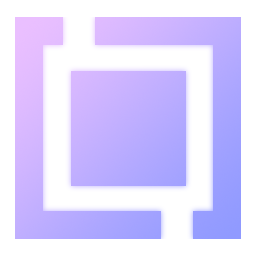
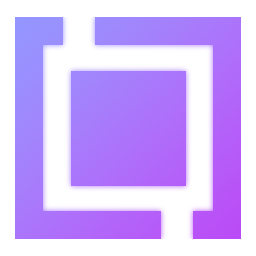
ECS-TH1 初识 结束

diff --git a/valaxy.config.ts b/valaxy.config.ts
@@ -26,7 +26,7 @@ export default defineValaxyConfig<UserThemeConfig>({
       enable : true,
       url:"https://pic.imgdb.cn/item/675cd5e7d0e0a243d4e3c51f.png",
       dark:"https://pic.imgdb.cn/item/675c4ab9d0e0a243d4e3bc96.png",   //"https://img.picui.cn/free/2024/12/11/6759b4f393e96.png"
-      opacity:0.9,
+      opacity:0.75,
     },
     say:{
       enable:true,

diff --git a/site.config.ts b/site.config.ts
@@ -13,7 +13,7 @@ export default defineSiteConfig({
   subtitle: '',
   lastUpdated:true,
   description: '庄生晓梦迷蝴蝶',
-  favicon:'https://pic.imgdb.cn/item/675ce224d0e0a243d4e3c64f.png',
+  favicon:'https://pic.imgdb.cn/item/675d87f2d0e0a243d4e40406.png',
   comment:{
     enable:true,
   },

diff --git a/pages/posts/ECS-TH1基本思想/index.md b/pages/posts/ECS-TH1基本思想/index.md
@@ -1,5 +1,6 @@
 ---
-title: ECS-TH1 基本思想
+title: ECS-TH1 初识
+icon : i-ri-stack-line
 author: Lin
 date: 2024-12-10
 categories: ECS
@@ -21,13 +22,13 @@ tags:
 
 ## 本章目录
 
+本章主要讲了ECS的理论基础
 1. 什么是ECS
     1. ECS与OOP的区别
     2. 为什么要用ECS？
 2. 万丈高楼平地起
-	1. 由OOP到ECS
-	2. GO补完计划
-	3. ComponentId
+	  1. 由OOP到ECS
+	  2. 对象补完计划
 
 <!-- more -->
 
@@ -66,9 +67,11 @@ GameObject --> 环境物
 环境物 --> 大树
 GameObject --> 人
 ```
-不难看出，OOP看起来像是把每个游戏对象竖直分隔开，成为独立的个体，也就是常说的类，每个`GameObject`(下文缩写为`GO`)都有自己独立的属性，互不干扰。
+不难看出，OOP看起来像是把每个游戏对象竖直分隔开，成为独立的个体，并依赖继承关系来实现代码复用，也就是常说的类，每个`GameObject`(下文缩写为`GO`)都有自己独立的属性，互不干扰。
 
-而在ECS的水平分割中，看起来应该是这样的：
+但，当GO间的继承关系变得复杂时，其本符合生活习惯的思维方式反而会变成一种障碍，各种复杂的多重继承更是令人脑袋晕晕。
+
+那么，ECS的水平分割看起来又是什么样的呢？
 
 ```mermaid
 graph LR
@@ -100,17 +103,163 @@ graph LR
 
 可见，在ECS中，并没有很清晰的“`GO`”概念，取而代之的是一个个`Component`。不同的逻辑由相应组件的`System`实现，互不干扰，降低了耦合性。
 
-在这种实现方式下，不同的`GO`之间的界限被抹除(~~GO补完计划~~)，只留下紧密排列的`Component`，`System`也不需要关心自己到底在操作哪个"对象"，而只需要关注眼前的数据就好了，既不用引入无关数据，也不会干扰其他系统，可谓一举两得~ ♪(´▽｀)
+在这种实现方式下，不同的`GO`之间的界限被抹除 (~~GO补完计划~~)，只留下紧密排列的Component，System也不需要关心自己到底在操作哪个"对象"，而只需要关注眼前的数据就好了，既不用引入无关数据，也不会干扰其他系统，可谓一举两得~ ♪(´▽｀)
 
 从OOP的“按对象排列”思想转换为ECS中的“按数据排列”，便是开启ECS的第一步。
 
 ### 为什么要用ECS？
 
-ECS带来的便利之一，就是**遍历**时的优雅。
+ECS带来的最大便利，就是极致的**速度**
 
-试想一下，如果你面前摆放着一些已完成的“乐高作品”，现在，要求你**把所有的黄色2x2砖块**都做上某种标记，这无疑是困难且不可能完成的 (￣▽￣)"
+试想一下，如果你面前摆放着一些已完成的“乐高作品”，现在，要求你**把所有的黄色2x2砖块**都做上某种标记，这无疑是困难且不可能完成的。
 
 但是如果是一些独立且排列整齐的积木块呢？在这种情况下，**找出所有**黄色积木块就非常简单了，只需要找出黄色积木块所在的组，依次标记就好啦 (o゜▽゜)o☆（如图）
 
 ![乐高示例](./legoexample.png)
 
+乐高成品对应的即是OOP模式中的`GO`，以单个对象为单位，整体操作；而散落排布的积木块即是ECS中的`Component`，以单个组件为单位，精确而高效。
+
+不过，传统的OOP在绝大多数情况下都没什么大问题，依旧正常运转，但是当加载的GO数量极大时，性能开销与缓存未命中也将指数爆炸。
+
+这时，天空一声巨响，ECS闪亮登场，其准确简洁的数据结构几乎是为这种场景量身定制，效率提升十分显著。
+当然，在普通场景中，ECS的表现同样优秀，其完全解耦的`System`亦能为开发提供很多便利，如肆意妄为(?)的代码复用，摆脱烦人的复杂继承。再怎么说，学学ECS总是没什么坏处的嘛 ~(￣▽￣)~*
+
+## 万丈高楼平地起
+### 从OOP到ECS
+万事开头难，不妨先试试一种不那么激进的方式——让GO成为Component的承载者，而不是数据与方法的承载者，示例如下：
+```csharp
+abstract class GameObject
+{
+	/// 实体Id
+	int Id { set; get; }
+	/// 实体所承载的Components
+	List<Component> Components { set; get; } = [];
+	/// Component的类型，无序，用于加速判断
+	HashSet<Type> ComponentTypes { set; get; } = [];
+	/// 获取T类型的Component(示例)
+	Component? GetComponent<T>()
+	{
+		return Components.Find(c => c.GetType() is T);
+	}
+	bool Has<T>()
+	{
+		return ComponentTypes.Contains(typeof(T));
+	}
+}
+```
+而当我们想操作Component时，System可以像这样写:
+```csharp
+void MySystem(List<GameObject> objects){
+	foreach(GameObject obj in objects){
+		if(obj.Has<MyComponent>()){
+			component = obj.GetComponent<MyComponent>();
+			// 干点啥 ¯\_(ツ)_/¯
+		}
+	}
+}
+```
+这种方法对于习惯OOP的人来说很容易接受，写起来也很舒服，且易于维护，但基本没有解决OOP的痛点，还可能导致更多性能问题。总而言之，这种方法只是一个由OOP到ECS过渡态的“杂交版”，只能起到思维上的过渡，并不推荐实际应用。
+
+### 对象补完计划
+
+接下来，我们所要做的就是**彻底消灭GO**，取而代之，我们将称呼“石头”“大树”“人”这一类东西为`Entity`。
+
+具体实现这一目的的方法，便是**视Entity为Index**，消灭GO之间的界限，只把实体看作对Component的索引，就已经足矣，此即为「**對象補完計画**」（什）
+
+化GO为Entity后，实现应该像这样：
+```csharp
+abstract class Entity
+{
+	int Id { set; get; }
+	/// Entity通常包含一个包含Component类型Id的HashSet来加速查询
+	HashSet<int> ComponentTypes { set; get; } = [];
+}
+```
+
+Entity仅仅作为Component的Index，而不含任何功能，所有Entity的属性都别无二致。
+
+那么，不同的Component是如何绑定到Entity身上的呢？
+
+
+```mermaid
+graph BT
+	subgraph EntityList
+		E0
+		E1
+		E2
+		E4
+	end
+	subgraph ComponentList
+		C0
+		C1
+		C2
+		C4
+	end
+	E0 --> C0
+	E1 --> C1
+	E2 --> C2
+	E4 --> C4
+
+```
+
+如图，Entity和Component都以一定的顺序排列的数组中，Entity永远位于第`Id`项，Component同理，该种数组能使Entity与Component相互链接；而不同组件的数组又由不同组件的System掌管，如此，任意$N$种Component，$M$个Entity，都可以通过$2N$个长度为$M$的数组实现将Entity作为Index访问Component.
+
+那么，Entity中的`ComponentTypes`又是如何实现的呢？一个简单的示例如下：
+```csharp
+public static class Family
+{
+	/// 验证的最后一个ComponentType的Id
+    private static ulong identifierValue = 0;
+
+    private static ulong Identifier()
+    {
+		// 每验证一个新的ComponentType，就使其自增1
+        return identifierValue++;
+    }
+
+	/// 用于验证该Type是否已被注册
+	/// 结构为{Type type->int Id}
+    private static readonly Dictionary<Type, ulong> typeIdentifiers = new Dictionary<Type, ulong>();
+    
+    public static ulong Type<T>()
+    {
+        var type = typeof(T);
+        if (!typeIdentifiers.ContainsKey(type))
+        {
+			// 未注册才进行验证
+            typeIdentifiers[type] = Identifier();
+        }
+        return typeIdentifiers[type];
+    }
+}
+```
+演示：
+
+```csharp
+class ComponentA{}
+class ComponentB{}
+class ComponentC{}
+
+Console.WriteLine($"AId - {Family.Type<ComponentA>()}");
+Console.WriteLine($"BId - {Family.Type<ComponentB>()}"); 
+Console.WriteLine($"CId - {Family.Type<ComponentC>()}"); 
+Console.WriteLine($"AId - {Family.Type<ComponentA>()}"); 
+```
+
+输出结果：
+```
+AId - 0
+BId - 1
+CId - 2
+AId - 0
+```
+如此，不同Component的Type就能被抽象为一个唯一的Id，并存入Entity的`ComponentTypes`中，以便快速检索。
+
+至此，我们已经在ECS的世界种扬帆起航，正式开启了高效与优雅的旅途。
+
+## 接下来？
+
+下一章TH2: Entity放在哪——SparseSet 稀疏集
+其实PR1的内容在这章已经展示的差不多了，PR1需要做的主要就是汇总并完善一下各种示例（
+
+ECS-TH1初识，结束~ο(=•ω＜=)ρ⌒☆

diff --git a/pages/tags/index.md b/pages/tags/index.md
@@ -1,7 +1,7 @@
 ---
 layout: tags
-title: 霖儿的小标签
+title: 霖儿的标签
 icon: i-ri-price-tag-3-line
 nav: false
-# comment: false
+comment: true
 ---

diff --git a/pages/posts/csharp_typeof_gettype.md b/pages/posts/csharp_typeof_gettype.md
@@ -1,5 +1,6 @@
 ---
 title: C#中的typeof()与GetType()
+icon : i-mdi-dot-net
 date: 2024-11-17
 update: 2024-12-08
 author: Lin
